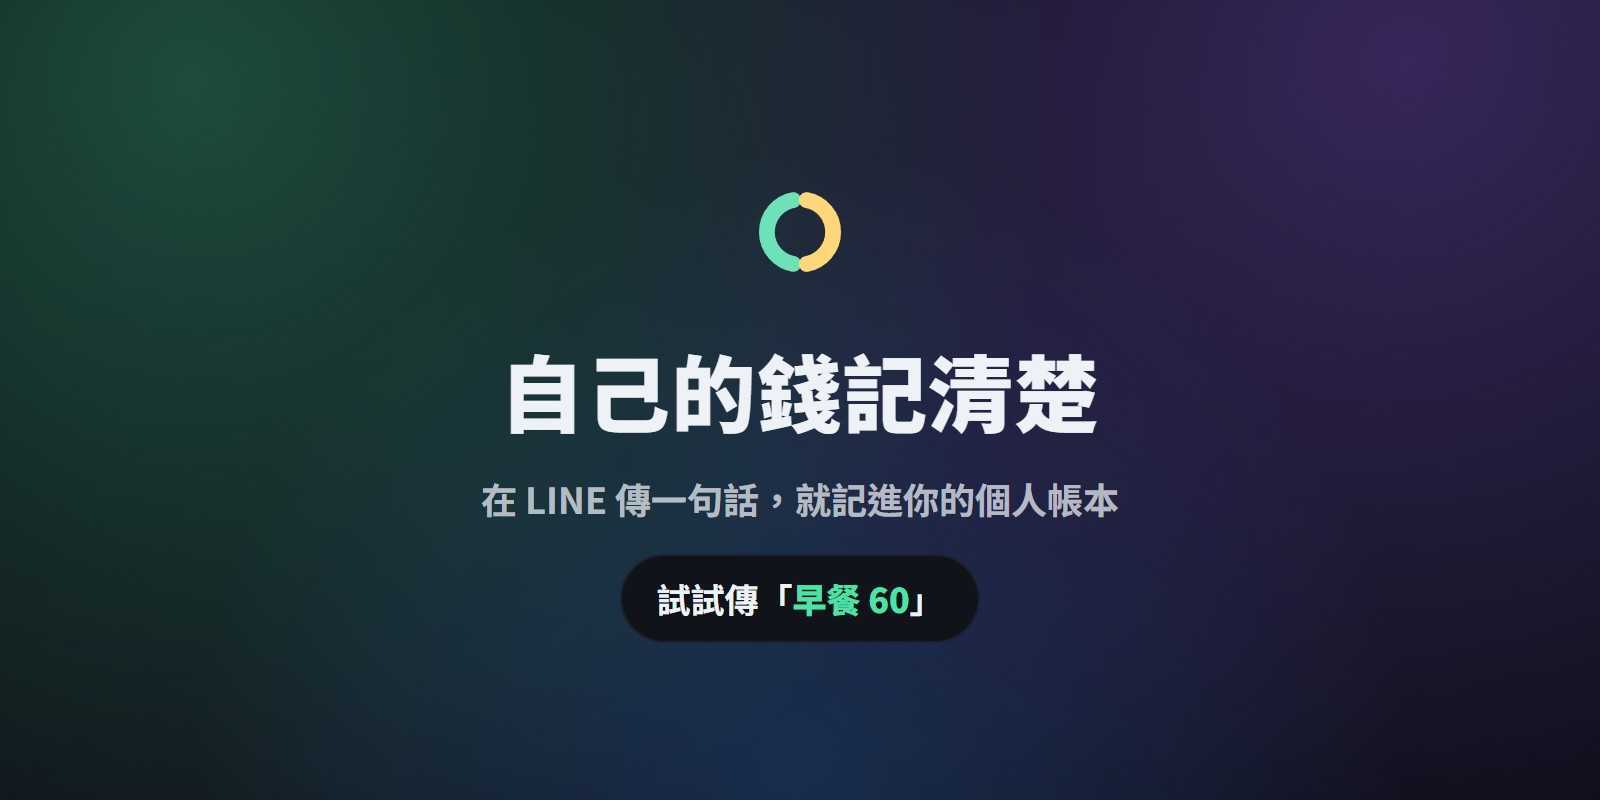
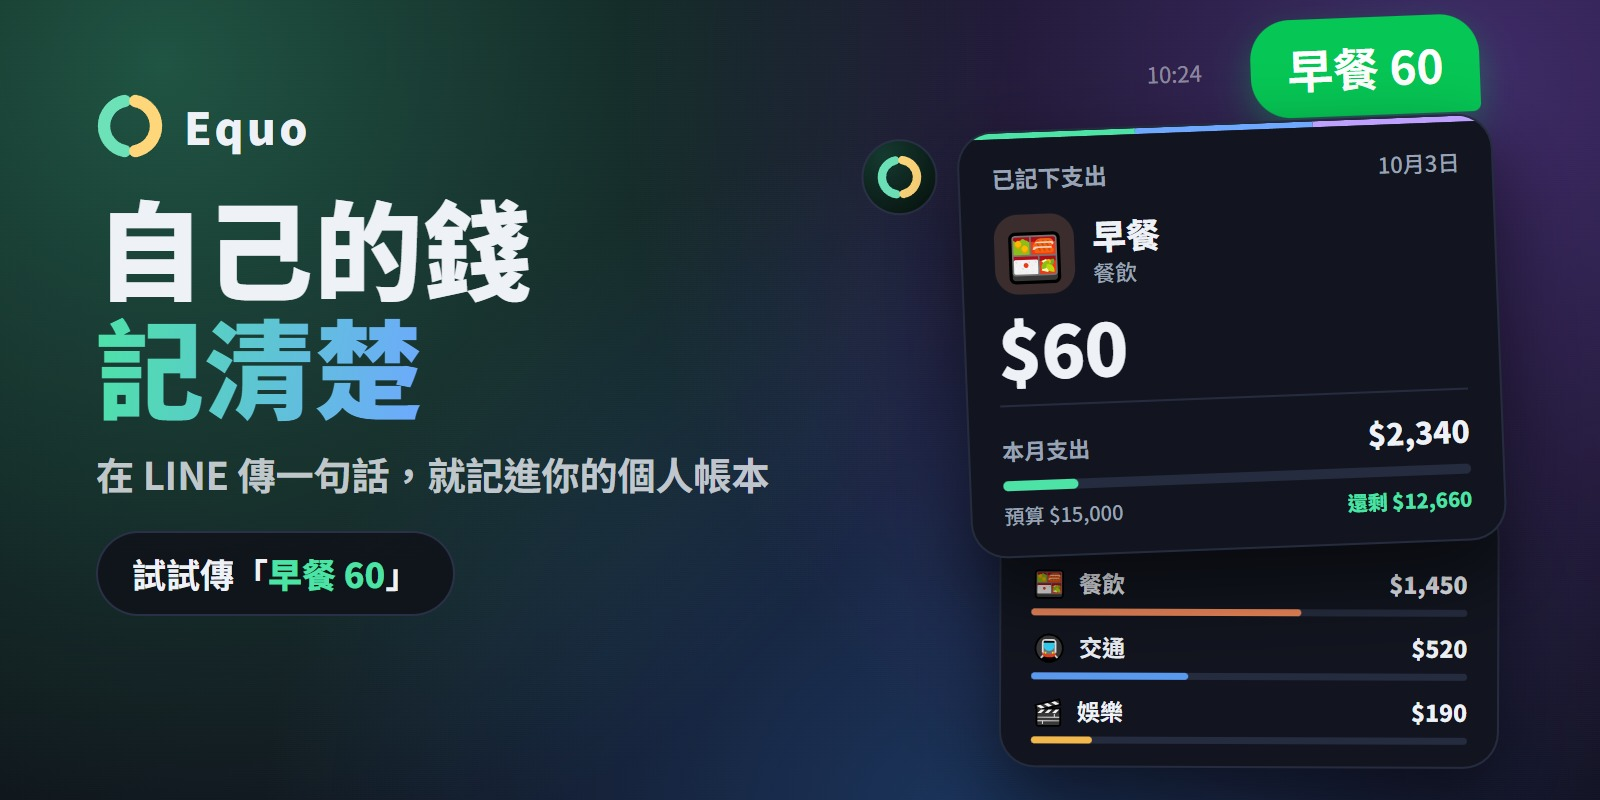
docs(line): Aurora rich menu and cover
Six-tile menu with a colour and glowing icon per tile (labels and actions
unchanged) and a cover with the tagline beside a sample record card, in the
same style as the reply cards. Needs re-uploading in OA Manager.

diff --git a/docs/line-oa/cover.html b/docs/line-oa/cover.html
@@ -1,12 +1,74 @@
-<!doctype html><html><head><style>
-body{margin:0;width:1600px;height:800px;overflow:hidden;font-family:"Noto Sans TC","Microsoft JhengHei",sans-serif;color:#EEF1F6;
-background:radial-gradient(circle at 12% 10%,rgba(77,227,166,.30),transparent 55%),radial-gradient(circle at 88% 8%,rgba(155,92,255,.28),transparent 55%),radial-gradient(circle at 50% 95%,rgba(61,139,255,.24),transparent 55%),linear-gradient(145deg,#07080D,#10121B 52%,#0B0D14)}
-.wrap{position:absolute;inset:0;display:grid;place-content:center;justify-items:center;gap:22px;text-align:center}
-h1{margin:0;font-size:84px;font-weight:800;letter-spacing:.02em;word-break:keep-all}
-p{margin:0;font-size:36px;font-weight:600;color:rgba(238,241,246,.72)}
-.chip{margin-top:8px;padding:18px 34px;border-radius:999px;background:#10131A;border:2px solid #1C2030;font-size:34px;font-weight:700}
+<!doctype html><html><head><meta charset="utf-8"><style>
+*{box-sizing:border-box}
+body{margin:0;width:1600px;height:800px;overflow:hidden;position:relative;font-family:"Noto Sans TC","Microsoft JhengHei","Segoe UI Emoji",sans-serif;color:#EEF1F6;
+background:radial-gradient(circle at 10% 8%,rgba(77,227,166,.34),transparent 52%),radial-gradient(circle at 92% 10%,rgba(155,92,255,.34),transparent 52%),radial-gradient(circle at 60% 104%,rgba(61,139,255,.30),transparent 55%),linear-gradient(145deg,#07080D,#10121B 52%,#0B0D14)}
+.left{position:absolute;left:96px;top:92px;width:700px}
+.brand{display:flex;align-items:center;gap:20px;margin-bottom:26px}
+.brand svg{width:68px;height:68px}
+.brand span{font-size:44px;font-weight:800;letter-spacing:.08em}
+h1{margin:0;font-size:108px;line-height:1.1;font-weight:800;letter-spacing:.01em;word-break:keep-all}
+h1 em{font-style:normal;background:linear-gradient(100deg,#4DE3A6,#6EA8FF);-webkit-background-clip:text;background-clip:text;color:transparent}
+.sub{margin:22px 0 0;font-size:38px;font-weight:600;color:rgba(238,241,246,.78)}
+.chip{display:inline-block;margin-top:30px;padding:16px 34px;border-radius:999px;background:rgba(16,19,26,.9);border:2px solid #2a3046;font-size:34px;font-weight:700}
 .chip b{color:#4DE3A6}
-</style></head><body><div class="wrap">
-<svg viewBox="0 0 512 512" width="150" height="150"><path d="M233 365 A111 111 0 0 1 233 147" fill="none" stroke="#6de2b8" stroke-width="54" stroke-linecap="round"/><path d="M279 147 A111 111 0 0 1 279 365" fill="none" stroke="#ffd67a" stroke-width="54" stroke-linecap="round"/></svg>
-<h1>自己的錢記清楚</h1><p>在 LINE 傳一句話，就記進你的個人帳本</p>
-<div class="chip">試試傳「<b>早餐 60</b>」</div></div></body></html>
+.mock{position:absolute;left:870px;top:24px;width:650px;height:740px;transform:rotate(-2.2deg);transform-origin:50% 50%}
+.card{position:absolute;background:#12151F;border:2px solid #262C3F;border-radius:36px;box-shadow:0 34px 80px rgba(0,0,0,.55)}
+.front{overflow:hidden}
+.back{left:120px;top:478px;width:500px;padding:50px 30px 22px;transform:rotate(2.4deg)}
+.front{left:96px;top:100px;width:536px;padding:28px 32px 26px}
+.bubble{position:absolute;right:28px;top:0;padding:16px 36px;border-radius:40px 40px 8px 40px;background:#06C755;color:#fff;font-size:46px;font-weight:700;box-shadow:0 14px 34px rgba(6,199,85,.35)}
+.time{position:absolute;right:306px;top:32px;font-size:22px;color:rgba(238,241,246,.5)}
+.bot{position:absolute;left:0;top:104px;width:76px;height:76px;border-radius:50%;background:radial-gradient(circle at 30% 20%,#153a30,#07100d);border:2px solid #2a3046;display:grid;place-items:center}
+.bot svg{width:46px;height:46px}
+.strip{display:flex;height:6px;margin:-28px -32px 22px;border-radius:36px 36px 0 0;overflow:hidden}
+.strip i{flex:1}
+.hd{display:flex;align-items:center;justify-content:space-between;font-size:23px;font-weight:700;color:#9AA3B5}
+.hd small{font-size:22px;color:#9AA3B5;font-weight:500}
+.main{display:flex;align-items:center;gap:18px;margin-top:20px}
+.emo{width:80px;height:80px;border-radius:24px;display:grid;place-items:center;font-size:46px;background:#3B2C2E;flex:0 0 auto}
+.ttl b{display:block;font-size:34px;font-weight:800;line-height:1.15}
+.ttl span{font-size:22px;color:#9AA3B5;font-weight:500}
+.amt{margin-top:18px;font-size:72px;line-height:1;font-weight:800;letter-spacing:-.01em}
+.hr{height:2px;background:#262C3F;margin:20px 0 18px}
+.row{display:flex;align-items:baseline;justify-content:space-between;font-size:22px;color:#9AA3B5;font-weight:600}
+.row b{font-size:30px;color:#EEF1F6;font-weight:800}
+.bar{height:10px;border-radius:5px;background:#262C3F;margin-top:12px;overflow:hidden}
+.bar i{display:block;height:100%;border-radius:5px;background:#4DE3A6}
+.note{display:flex;justify-content:space-between;margin-top:10px;font-size:20px;color:#9AA3B5;font-weight:500}
+.note b{color:#4DE3A6;font-weight:800}
+.cat{margin-top:12px}
+.cat .l{display:flex;align-items:center;gap:12px;font-size:23px;font-weight:600}
+.cat .l u{text-decoration:none;font-size:26px}
+.cat .l span{flex:1}
+.cat .l b{font-weight:800}
+.cat .b{height:7px;border-radius:4px;background:#262C3F;margin-top:8px;overflow:hidden}
+.cat .b i{display:block;height:100%;border-radius:4px}
+.back .hd{font-size:22px}
+</style></head><body>
+<div class="left">
+  <div class="brand"><svg viewBox="108 108 296 296"><path d="M233 365 A111 111 0 0 1 233 147" fill="none" stroke="#6de2b8" stroke-width="54" stroke-linecap="round"/><path d="M279 147 A111 111 0 0 1 279 365" fill="none" stroke="#ffd67a" stroke-width="54" stroke-linecap="round"/></svg><span>Equo</span></div>
+  <h1>自己的錢<br><em>記清楚</em></h1>
+  <p class="sub">在 LINE 傳一句話，就記進你的個人帳本</p>
+  <div class="chip">試試傳「<b>早餐 60</b>」</div>
+</div>
+<div class="mock">
+  <div class="card back">
+    <div class="cat"><div class="l"><u>🍱</u><span>餐飲</span><b>$1,450</b></div><div class="b"><i style="width:62%;background:#F0885A"></i></div></div>
+    <div class="cat"><div class="l"><u>🚇</u><span>交通</span><b>$520</b></div><div class="b"><i style="width:36%;background:#5B9BF0"></i></div></div>
+    <div class="cat"><div class="l"><u>🎬</u><span>娛樂</span><b>$190</b></div><div class="b"><i style="width:14%;background:#F2B84B"></i></div></div>
+  </div>
+  <div class="time">10:24</div>
+  <div class="bubble">早餐 60</div>
+  <div class="bot"><svg viewBox="108 108 296 296"><path d="M233 365 A111 111 0 0 1 233 147" fill="none" stroke="#6de2b8" stroke-width="54" stroke-linecap="round"/><path d="M279 147 A111 111 0 0 1 279 365" fill="none" stroke="#ffd67a" stroke-width="54" stroke-linecap="round"/></svg></div>
+  <div class="card front">
+    <div class="strip"><i style="background:#4DE3A6"></i><i style="background:#6EA8FF"></i><i style="background:#BEA0FF"></i></div>
+    <div class="hd"><span>已記下支出</span><small>10月3日</small></div>
+    <div class="main"><div class="emo">🍱</div><div class="ttl"><b>早餐</b><span>餐飲</span></div></div>
+    <div class="amt">$60</div>
+    <div class="hr"></div>
+    <div class="row"><span>本月支出</span><b>$2,340</b></div>
+    <div class="bar"><i style="width:16%"></i></div>
+    <div class="note"><span>預算 $15,000</span><b>還剩 $12,660</b></div>
+  </div>
+</div>
+</body></html>

diff --git a/docs/line-oa/menu.html b/docs/line-oa/menu.html
@@ -1,19 +1,25 @@
-<!doctype html><html><head><style>
-body{margin:0;width:2500px;height:1686px;overflow:hidden;font-family:"Noto Sans TC","Microsoft JhengHei",sans-serif;color:#EEF1F6;
-background:radial-gradient(circle at 10% 8%,rgba(77,227,166,.18),transparent 50%),radial-gradient(circle at 92% 6%,rgba(155,92,255,.18),transparent 50%),radial-gradient(circle at 50% 100%,rgba(61,139,255,.16),transparent 55%),linear-gradient(145deg,#07080D,#10121B 52%,#0B0D14)}
-.grid{position:absolute;inset:0;display:grid;grid-template-columns:repeat(3,1fr);grid-template-rows:1fr 1fr}
-.t{position:relative;display:grid;place-content:center;justify-items:center;gap:30px;text-align:center}
-.t::after{content:"";position:absolute;inset:28px;border-radius:56px;background:rgba(16,19,26,.8);border:4px solid #1C2030;z-index:-1}
-.hl::after{background:linear-gradient(120deg,rgba(77,227,166,.22),rgba(61,139,255,.22)),rgba(16,19,26,.85);border-color:rgba(77,227,166,.45)}
-.ic{width:170px;height:170px;border-radius:50px;display:grid;place-items:center;background:var(--bg)}
-.ic svg{width:108px;height:108px;stroke:var(--c);fill:none;stroke-width:2.2;stroke-linecap:round;stroke-linejoin:round}
-h2{margin:0;font-size:104px;font-weight:800;letter-spacing:.03em;white-space:nowrap}
-p{margin:0;font-size:52px;font-weight:600;color:rgba(238,241,246,.62);white-space:nowrap}
+<!doctype html><html><head><meta charset="utf-8"><style>
+*{box-sizing:border-box}
+body{margin:0;width:2500px;height:1686px;overflow:hidden;font-family:"Noto Sans TC","Microsoft JhengHei",sans-serif;color:#F4F6FA;
+background:radial-gradient(circle at 8% 6%,rgba(77,227,166,.22),transparent 46%),radial-gradient(circle at 94% 4%,rgba(155,92,255,.22),transparent 46%),radial-gradient(circle at 50% 104%,rgba(61,139,255,.22),transparent 50%),linear-gradient(145deg,#07080D,#10121B 52%,#0A0C13)}
+.grid{position:absolute;inset:0;display:grid;grid-template-columns:repeat(3,1fr);grid-template-rows:1fr 1fr;padding:22px;gap:22px}
+.t{position:relative;border-radius:72px;overflow:hidden;display:grid;place-content:center;justify-items:center;gap:34px;text-align:center;
+background:radial-gradient(130% 90% at 0% 0%,rgba(var(--c),.36),transparent 62%),radial-gradient(90% 70% at 100% 100%,rgba(var(--c),.16),transparent 70%),linear-gradient(160deg,#171B29,#0F121B);
+border:4px solid rgba(var(--c),.45);box-shadow:inset 0 3px 0 rgba(255,255,255,.08)}
+.ic{width:310px;height:310px;border-radius:50%;display:grid;place-items:center;
+background:radial-gradient(circle at 32% 24%,rgba(var(--c),.70),rgba(var(--c),.22) 72%);
+border:4px solid rgba(var(--c),.65);box-shadow:0 0 120px rgba(var(--c),.55),inset 0 5px 0 rgba(255,255,255,.2)}
+.ic svg{width:176px;height:176px;fill:none;stroke:#fff;stroke-width:2;stroke-linecap:round;stroke-linejoin:round;filter:drop-shadow(0 6px 10px rgba(0,0,0,.35))}
+.brand{border:4px solid transparent;background:radial-gradient(130% 90% at 0% 0%,rgba(77,227,166,.34),transparent 62%),radial-gradient(90% 70% at 100% 100%,rgba(61,139,255,.30),transparent 70%),linear-gradient(160deg,#17202b,#0F121B) padding-box,linear-gradient(135deg,#4DE3A6,#3D8BFF) border-box}
+.brand .ic{background:radial-gradient(circle at 30% 25%,#1d4a3c,#0b1411 78%);border:4px solid rgba(77,227,166,.7);box-shadow:0 0 130px rgba(77,227,166,.45),inset 0 5px 0 rgba(255,255,255,.14)}
+.brand .ic svg{stroke:none;width:176px;height:176px;filter:none}
+h2{margin:0;font-size:128px;line-height:1.05;font-weight:800;letter-spacing:.02em;white-space:nowrap}
+p{margin:0;font-size:66px;line-height:1.1;font-weight:600;color:rgba(244,246,250,.76);white-space:nowrap}
 </style></head><body><div class="grid">
-<div class="t" style="--c:#4DE3A6;--bg:rgba(77,227,166,.14)"><div class="ic"><svg viewBox="0 0 24 24"><path d="M3 3v18h18"/><path d="M7 15l4-4 3 3 5-6"/></svg></div><h2>本月收支</h2><p>支出・收入・預算</p></div>
-<div class="t" style="--c:#4DE3A6;--bg:rgba(77,227,166,.14)"><div class="ic"><svg viewBox="0 0 24 24"><circle cx="12" cy="12" r="9"/><path d="M12 8v8"/><path d="M8 12h8"/></svg></div><h2>記收入</h2><p>傳「收入 金額 項目」</p></div>
-<div class="t hl" style="--c:#4DE3A6;--bg:rgba(77,227,166,.18)"><div class="ic"><svg viewBox="0 0 24 24"><path d="M14 3h7v7"/><path d="M10 14L21 3"/><path d="M21 14v5a2 2 0 0 1-2 2H5a2 2 0 0 1-2-2V5a2 2 0 0 1 2-2h5"/></svg></div><h2>開啟 Equo</h2><p>看明細、改帳、分帳</p></div>
-<div class="t" style="--c:#FFB84D;--bg:rgba(255,184,77,.14)"><div class="ic"><svg viewBox="0 0 24 24"><path d="M9 14L4 9l5-5"/><path d="M4 9h11a5 5 0 0 1 0 10h-3"/></svg></div><h2>復原上一筆</h2><p>30 分鐘內從 LINE 記的</p></div>
-<div class="t" style="--c:#BEA0FF;--bg:rgba(155,92,255,.18)"><div class="ic"><svg viewBox="0 0 24 24"><circle cx="12" cy="12" r="9"/><path d="M9.5 9a2.5 2.5 0 1 1 3.5 2.3c-.6.3-1 .9-1 1.6V14"/><path d="M12 17.5h.01"/></svg></div><h2>使用說明</h2><p>記帳範例與所有指令</p></div>
-<div class="t" style="--c:#7FB2FF;--bg:rgba(61,139,255,.16)"><div class="ic"><svg viewBox="0 0 24 24"><path d="M10 13a5 5 0 0 0 7.5.5l3-3a5 5 0 0 0-7-7l-1.7 1.7"/><path d="M14 11a5 5 0 0 0-7.5-.5l-3 3a5 5 0 0 0 7 7l1.7-1.7"/></svg></div><h2>連結帳號</h2><p>第一次使用請先連結</p></div>
+<div class="t" style="--c:91,155,255"><div class="ic"><svg viewBox="0 0 24 24"><path d="M21.21 15.89A10 10 0 1 1 8 2.83"/><path d="M22 12A10 10 0 0 0 12 2v10z"/></svg></div><h2>本月收支</h2><p>支出・收入・預算</p></div>
+<div class="t" style="--c:77,227,166"><div class="ic"><svg viewBox="0 0 24 24"><circle cx="12" cy="12" r="10"/><path d="M8 12l4 4 4-4"/><path d="M12 8v8"/></svg></div><h2>記收入</h2><p>收入 金額 項目</p></div>
+<div class="t brand" style="--c:77,227,166"><div class="ic"><svg viewBox="108 108 296 296"><path d="M233 365 A111 111 0 0 1 233 147" fill="none" stroke="#6de2b8" stroke-width="54" stroke-linecap="round"/><path d="M279 147 A111 111 0 0 1 279 365" fill="none" stroke="#ffd67a" stroke-width="54" stroke-linecap="round"/></svg></div><h2>開啟 Equo</h2><p>明細・改帳・分帳</p></div>
+<div class="t" style="--c:255,184,77"><div class="ic"><svg viewBox="0 0 24 24"><polyline points="1 4 1 10 7 10"/><path d="M3.51 15a9 9 0 1 0 2.13-9.36L1 10"/></svg></div><h2>復原上一筆</h2><p>30 分鐘內有效</p></div>
+<div class="t" style="--c:179,146,255"><div class="ic"><svg viewBox="0 0 24 24"><circle cx="12" cy="12" r="10"/><path d="M9.09 9a3 3 0 0 1 5.83 1c0 2-3 3-3 3"/><path d="M12 17h.01"/></svg></div><h2>使用說明</h2><p>範例與所有指令</p></div>
+<div class="t" style="--c:92,203,240"><div class="ic"><svg viewBox="0 0 24 24"><path d="M10 13a5 5 0 0 0 7.54.54l3-3a5 5 0 0 0-7.07-7.07l-1.72 1.71"/><path d="M14 11a5 5 0 0 0-7.54-.54l-3 3a5 5 0 0 0 7.07 7.07l1.71-1.71"/></svg></div><h2>連結帳號</h2><p>第一次先連結</p></div>
 </div></body></html>

diff --git a/docs/line-oa/README.md b/docs/line-oa/README.md
@@ -2,6 +2,8 @@
 
 2026-09-29 設定。HTML 是原稿，用 `render.mjs`（Playwright + 本機 Chromium）輸出 PNG 再轉 JPG 上傳。
 
+2026-10 圖文選單與封面改版成極光配色，跟回覆卡片同一套深色風格：選單六格各有主色與發光圖示（按鈕名稱與動作沒變，見下表），封面左邊是標語、右邊是一張示意的記帳回覆卡。改圖後要重新到 OA Manager 上傳，程式不會自動同步。
+
 | 檔案 | 用途 | 尺寸 | 上傳位置 |
 |---|---|---|---|
 | `avatar.jpg` | 大頭貼（LINE 會裁成圓形，logo 置中留白） | 1024×1024 | OA Manager → 帳號設定 → 編輯基本檔案（改後 1 小時內不能再改） |
